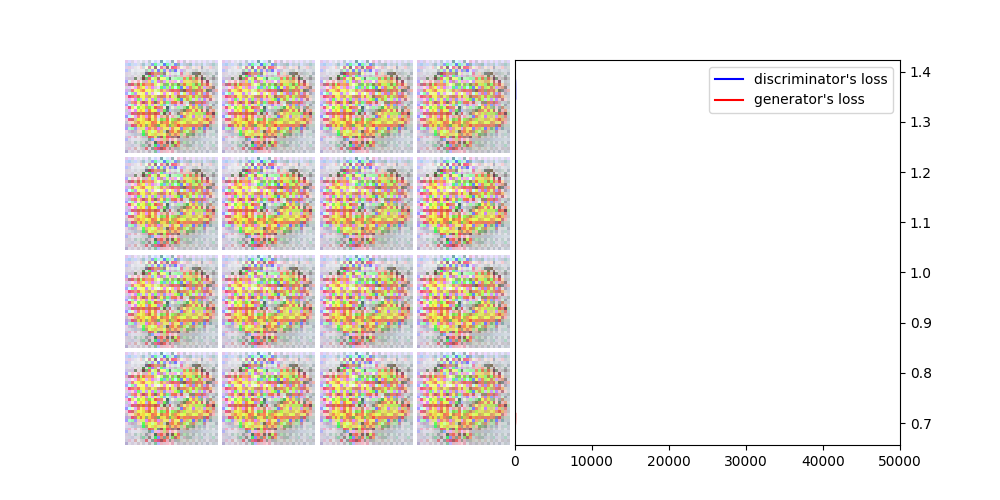
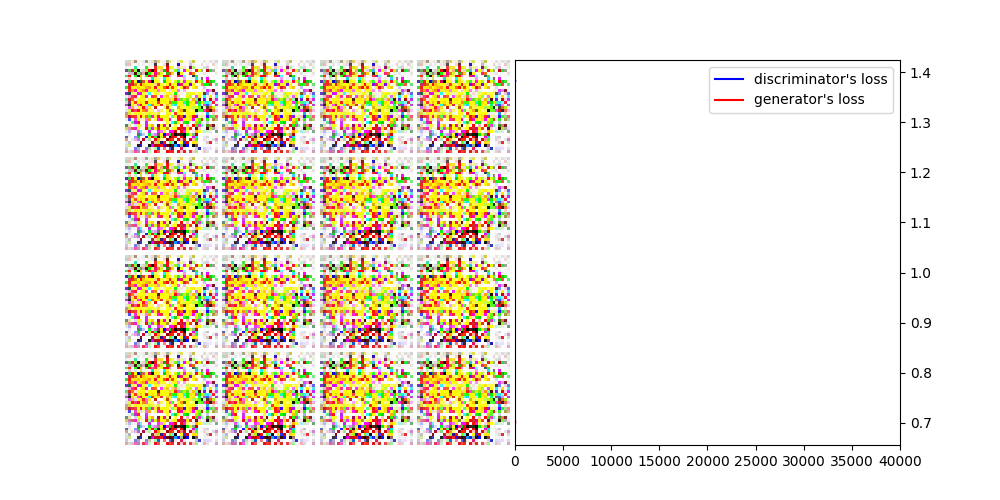
Rename tensors for prettier graph

diff --git a/main.py b/main.py
@@ -13,7 +13,7 @@ import scipy.misc
 import commands
 import time
 
-ITERATIONS = 50
+ITERATIONS = 40
 BATCH_SIZE = 64
 EPOCHS = 1000
 IMAGE_SIZE = 32*32*4
@@ -101,16 +101,15 @@ def variable_summaries(var):
 
 def gaussian_noise_layer(input_layer, std):
 	noise = tf.random_normal(shape=tf.shape(input_layer), mean=0.0, stddev=std, dtype=tf.float32) 
-	return input_layer + noise
+	return tf.add(input_layer, noise, 'add_gaussian_noise')
 
 def Conv2d(input, output_dim=64, kernel=(5, 5), strides=(2, 2), stddev=0.02, name='conv_2d'):
-
 	with tf.variable_scope(name):
-		W = tf.get_variable('Conv2dW', [kernel[0], kernel[1], input.get_shape()[-1], output_dim],
+		W = tf.get_variable('convW', [kernel[0], kernel[1], input.get_shape()[-1], output_dim],
 							initializer=tf.truncated_normal_initializer(stddev=stddev))
 		with tf.name_scope('W'):
 			variable_summaries(W)
-		b = tf.get_variable('Conv2db', [output_dim], initializer=tf.zeros_initializer())
+		b = tf.get_variable('convb', [output_dim], initializer=tf.zeros_initializer())
 		with tf.name_scope('b'):
 			variable_summaries(b)
 	    
@@ -118,12 +117,11 @@ def Conv2d(input, output_dim=64, kernel=(5, 5), strides=(2, 2), stddev=0.02, nam
 		return tf.nn.conv2d(input, W, strides=[1, strides[0], strides[1], 1], padding='SAME') + b
 
 def Deconv2d(input, output_dim, batch_size, kernel=(5, 5), strides=(2, 2), stddev=0.02, name='deconv_2d'):
-	
 	with tf.variable_scope(name):
-		W = tf.get_variable('Deconv2dW', [kernel[0], kernel[1], output_dim, input.get_shape()[-1]], initializer=tf.truncated_normal_initializer(stddev=stddev))
+		W = tf.get_variable('deconvW', [kernel[0], kernel[1], output_dim, input.get_shape()[-1]], initializer=tf.truncated_normal_initializer(stddev=stddev))
 		with tf.name_scope('W'):
 			variable_summaries(W)
-		b = tf.get_variable('Deconv2db', [output_dim], initializer=tf.zeros_initializer())
+		b = tf.get_variable('deconvb', [output_dim], initializer=tf.zeros_initializer())
 		with tf.name_scope('b'):
 			variable_summaries(b)
 
@@ -139,15 +137,14 @@ def Deconv2d(input, output_dim, batch_size, kernel=(5, 5), strides=(2, 2), stdde
 		return deconv + b
 
 def Dense(input, output_dim, stddev=0.02, name='dense'):
-	
 	with tf.variable_scope(name):
 	    
 		shape = input.get_shape()
-		W = tf.get_variable('DenseW', [shape[1], output_dim],
+		W = tf.get_variable('denseW', [shape[1], output_dim],
 						initializer=tf.random_normal_initializer(stddev=stddev))
 		with tf.name_scope('W'):
 			variable_summaries(W)
-		b = tf.get_variable('Denseb', [output_dim],
+		b = tf.get_variable('denseb', [output_dim],
 							initializer=tf.zeros_initializer())
 		with tf.name_scope('b'):
 			variable_summaries(b)
@@ -157,8 +154,7 @@ def Dense(input, output_dim, stddev=0.02, name='dense'):
 def BatchNormalization(input, name='bn'):
 	return tf.contrib.layers.batch_norm(input, center=True, scale=True, decay=0.9, is_training=True, updates_collections=None, epsilon=1e-5)	
 	
-def LeakyReLU(input, leak=0.4, name='lrelu'):
-	
+def LeakyReLU(input, leak=0.6, name='lrelu'):
 	return tf.maximum(input, leak*input, name='LeakyRelu')
 
 def Discriminator(X, reuse=False, name='d'):
@@ -167,27 +163,28 @@ def Discriminator(X, reuse=False, name='d'):
 		X = gaussian_noise_layer(X, 0.2)
 		if len(X.get_shape()) > 2:
 			# X: -1, 32, 32, 4
-			D_conv1 = Conv2d(X, output_dim=32, kernel=(3,3), name='Disc_conv1')
+			D_conv1 = Conv2d(X, output_dim=32, kernel=(3,3), name='conv1')
 		else:
 			D_reshaped = tf.reshape(X, [-1, 32, 32, 4])
-			D_conv1 = Conv2d(D_reshaped, output_dim=32, kernel=(3,3), name='Disc_conv1')
+			D_conv1 = Conv2d(D_reshaped, output_dim=32, kernel=(3,3), name='conv1')
 		D_h1 = LeakyReLU(D_conv1)
-		D_conv2 = Conv2d(D_h1, output_dim=64, kernel=(3,3), name='Disc_conv2')
+		D_conv2 = Conv2d(D_h1, output_dim=64, kernel=(3,3), name='conv2')
 		D_h2 = LeakyReLU(D_conv2)
 
 		D_h2_pooled = tf.nn.avg_pool(D_h2, ksize=[1, 2, 2, 1], strides=[1, 2, 2, 1], padding='SAME')
 
-		D_conv3 = Conv2d(D_h2_pooled, output_dim=128, kernel=(3,3), name='Disc_conv3')
+		D_conv3 = Conv2d(D_h2_pooled, output_dim=128, kernel=(3,3), name='conv3')
 		D_h3 = LeakyReLU(D_conv3)
-		D_conv4 = Conv2d(D_h3, output_dim=256, kernel=(3,3), name='Disc_conv4')
+		D_conv4 = Conv2d(D_h3, output_dim=256, kernel=(3,3), name='conv4')
 		D_h4 = LeakyReLU(D_conv4)
 
 		D_h4_pooled = tf.nn.avg_pool(D_h4, ksize=[1, 2, 2, 1], strides=[1, 2, 2, 1], padding='SAME')
 
 		D_r = tf.reshape(D_h4_pooled, [-1, 256])
 		D_h5 = tf.nn.dropout(D_r, 0.6)
-		D_h6 = Dense(D_h5, output_dim=1, name='Disc_h6')
-		return tf.nn.sigmoid(D_h6), D_h6, D_h4
+		D_h6 = Dense(D_h5, output_dim=1, name='dense')
+		preds = tf.nn.sigmoid(D_h6, name='predictions')
+		return preds, D_h6, D_h4
 
 def Generator(z, name='g'):
 
@@ -197,52 +194,52 @@ def Generator(z, name='g'):
 	# Then deconv with stride 2, 5x5 filters into 4*32*32
 	with tf.variable_scope(name):
 
-		G_1 = Dense(z, output_dim=1024*4*4, name='Gen_1')
+		G_1 = Dense(z, output_dim=1024*4*4, name='dense')
 		G_r1 = tf.reshape(G_1, [-1, 4, 4, 1024])
-		G_bn1 = BatchNormalization(G_r1, name='Gen_bn1')
+		G_bn1 = BatchNormalization(G_r1, name='dense_bn')
 		G_h1 = LeakyReLU(G_bn1)
-		with tf.name_scope('activation_1'):
+		with tf.name_scope('dense_activation'):
 			variable_summaries(G_h1)
 
-		G_conv2 = Deconv2d(G_h1, output_dim=512, batch_size=BATCH_SIZE, name='Gen_conv2')
-		G_bn2 = BatchNormalization(G_conv2, name='Gen_bn2')
+		G_conv2 = Deconv2d(G_h1, output_dim=512, batch_size=BATCH_SIZE, name='deconv1')
+		G_bn2 = BatchNormalization(G_conv2, name='deconv1_bn')
 		G_h2 = LeakyReLU(G_bn2)
-		with tf.name_scope('activation_2'):
+		with tf.name_scope('deconv1_activation'):
 			variable_summaries(G_h2)
 
-		G_conv3 = Deconv2d(G_h2, output_dim=256, batch_size=BATCH_SIZE, name='Gen_conv3')
-		G_bn3 = BatchNormalization(G_conv3, name='Gen_bn3')
+		G_conv3 = Deconv2d(G_h2, output_dim=256, batch_size=BATCH_SIZE, name='deconv2')
+		G_bn3 = BatchNormalization(G_conv3, name='deconv2_bn')
 		G_h3 = LeakyReLU(G_bn3)
-		with tf.name_scope('activation_3'):
+		with tf.name_scope('deconv2_activation'):
 			variable_summaries(G_h3)
 
-		G_conv4 = Deconv2d(G_h3, output_dim=4, batch_size=BATCH_SIZE, name='Gen_conv4')
+		G_conv4 = Deconv2d(G_h3, output_dim=4, batch_size=BATCH_SIZE, name='deconv3')
 		G_r4 = tf.reshape(G_conv4, [-1, 32*32*4]) # -1 is for batch size
 		tanh_layer = tf.nn.tanh(G_r4)
 		with tf.name_scope('tanh'):
 			variable_summaries(tanh_layer)
 		return tanh_layer
 
-X = tf.placeholder(tf.float32, shape=[None, IMAGE_SIZE])
-z = tf.placeholder(tf.float32, shape=[None, 100])
+X = tf.placeholder(tf.float32, shape=[None, IMAGE_SIZE], name="real_images_input")
+z = tf.placeholder(tf.float32, shape=[None, 100], name="generator_latent_space_input")
 
 G = Generator(z, 'Generator')
 D_real_prob, D_real_logits, feature_matching_real = Discriminator(X, False, 'Discriminator')
-D_fake_prob, D_fake_logits, feature_matching_fake = Discriminator(G, True, 'Discriminator')
+D_fake_prob, D_fake_logits, feature_matching_fake = Discriminator(G, True, 'Discriminator_reused')
 
-tf.summary.histogram("d_real_prob/activation", tf.identity(D_real_prob, 'd_real_prob'))
-tf.summary.histogram("d_fake_prob/activation", tf.identity(D_fake_prob, 'd_fake_prob'))
+tf.summary.histogram("d_real_prob", D_real_prob)
+tf.summary.histogram("d_fake_prob", D_fake_prob)
 
-D_real = tf.reduce_mean(tf.nn.sigmoid_cross_entropy_with_logits(logits=D_real_logits, labels=(tf.ones_like(D_real_logits) * (0.8)))) # one sided label smoothing
-D_fake = tf.reduce_mean(tf.nn.sigmoid_cross_entropy_with_logits(logits=D_fake_logits, labels=tf.zeros_like(D_fake_logits)))
-D_fake_wrong = tf.reduce_mean(tf.nn.sigmoid_cross_entropy_with_logits(logits=D_fake_logits, labels=tf.ones_like(D_fake_logits)))
-feature_matching_loss = tf.reduce_mean(tf.nn.l2_loss(feature_matching_real - feature_matching_fake)) / (16 * 16)
+D_real = tf.reduce_mean(tf.nn.sigmoid_cross_entropy_with_logits(logits=D_real_logits, labels=(tf.ones_like(D_real_logits) * (0.8))), name="disc_real_cross_entropy") # one sided label smoothing
+D_fake = tf.reduce_mean(tf.nn.sigmoid_cross_entropy_with_logits(logits=D_fake_logits, labels=tf.zeros_like(D_fake_logits)), name="disc_fake_cross_entropy")
+D_fake_wrong = tf.reduce_mean(tf.nn.sigmoid_cross_entropy_with_logits(logits=D_fake_logits, labels=tf.ones_like(D_fake_logits)), name="generator_wrong_fake_cross_entropy")
+feature_matching_loss = tf.divide(tf.reduce_mean(tf.nn.l2_loss(feature_matching_real - feature_matching_fake)), (16 * 16), name="feature_matching_loss")
 
-D_loss = D_real + D_fake
-G_loss = D_fake_wrong + 0.2 * feature_matching_loss
+D_loss = tf.add(D_real, D_fake, "disc_loss")
+G_loss = tf.add(D_fake_wrong, 0.2 * feature_matching_loss, "generator_loss")
 
-tf.summary.scalar("D_real", D_real)
-tf.summary.scalar("D_fake", D_fake)
+tf.summary.scalar("D_real_loss", D_real)
+tf.summary.scalar("D_fake_loss", D_fake)
 tf.summary.scalar("feature_matching_loss", feature_matching_loss)
 tf.summary.scalar("G_loss", G_loss)
 
@@ -256,12 +253,11 @@ def train(loss_tensor, params, learning_rate, beta1):
 	for grad, var in grads:
 		if grad is not None:
 			tf.summary.histogram(var.op.name + "/gradient", grad)
-			tf.summary.histogram(var.op.name + "/gradient/sparsity", tf.nn.zero_fraction(grad))
 	return optimizer.apply_gradients(grads)
 
 
 D_solver = train(D_loss, d_params, learning_rate=1e-4, beta1=0.5)
-G_solver = train(G_loss, g_params, learning_rate=1e-3, beta1=0.5)
+G_solver = train(G_loss, g_params, learning_rate=2e-4, beta1=0.5)
 
 def normalize_image_batches(image_batches):
 	normalized_batches = np.zeros(image_batches.shape)
